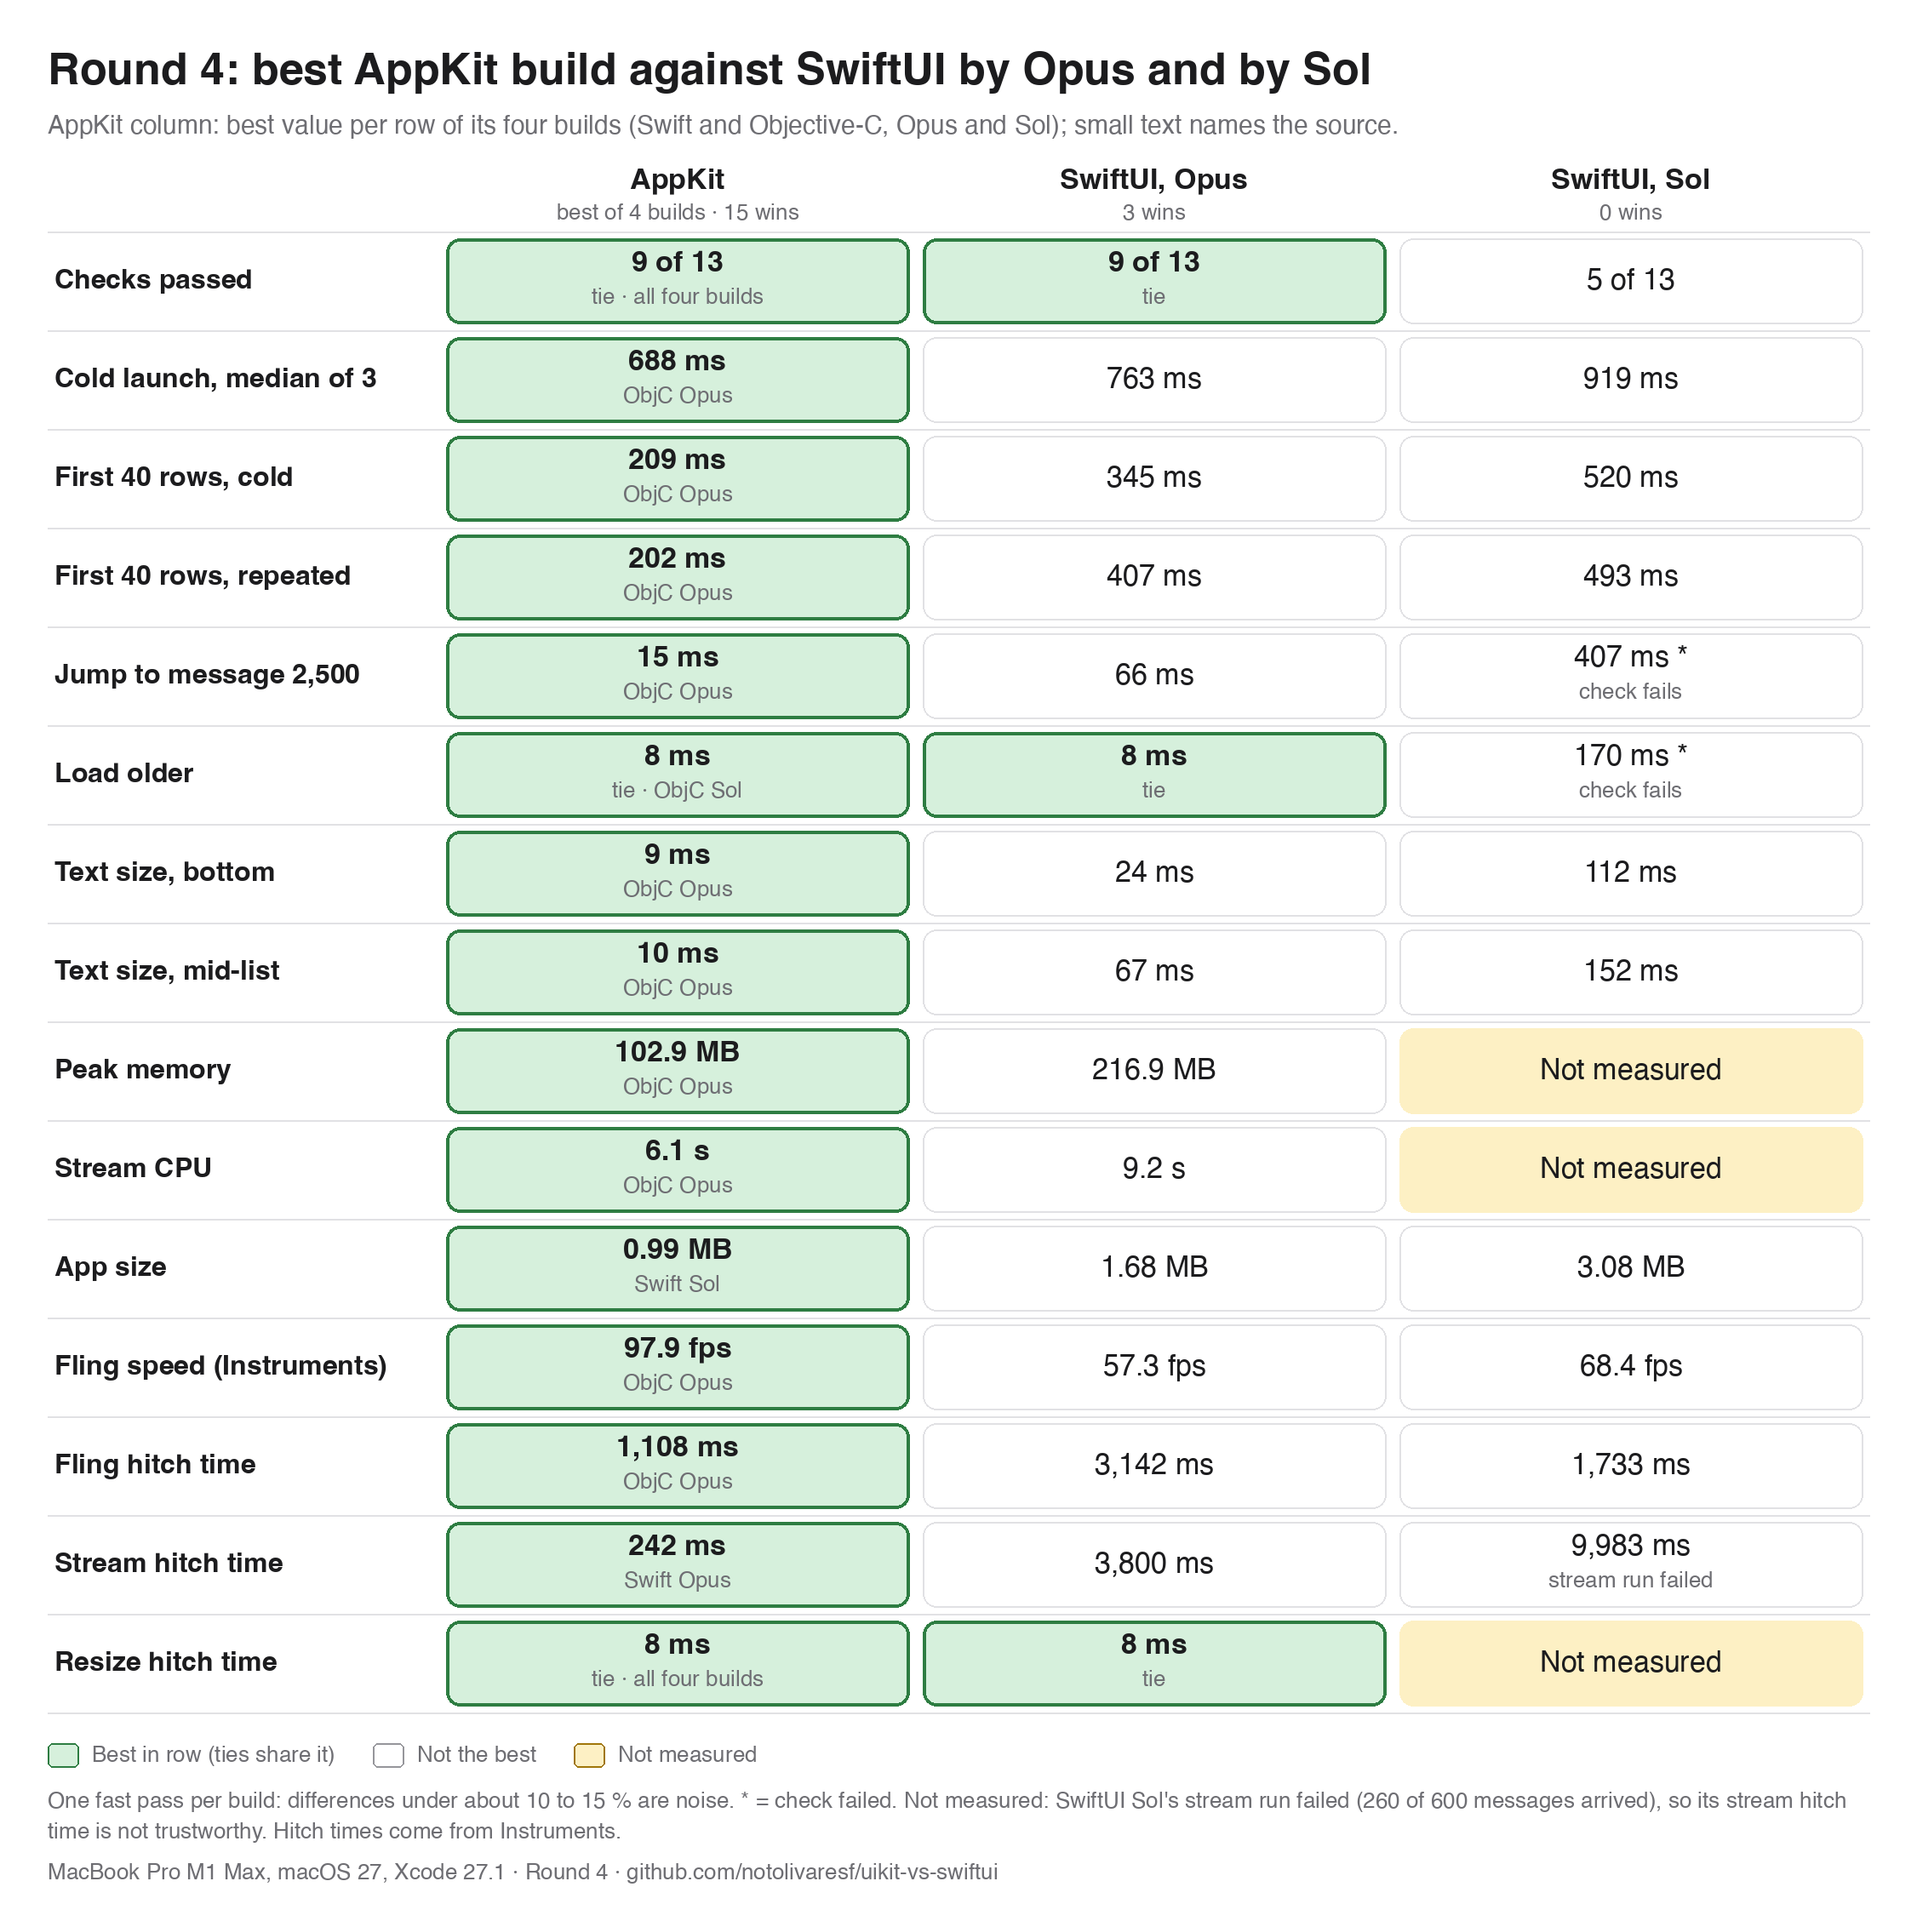
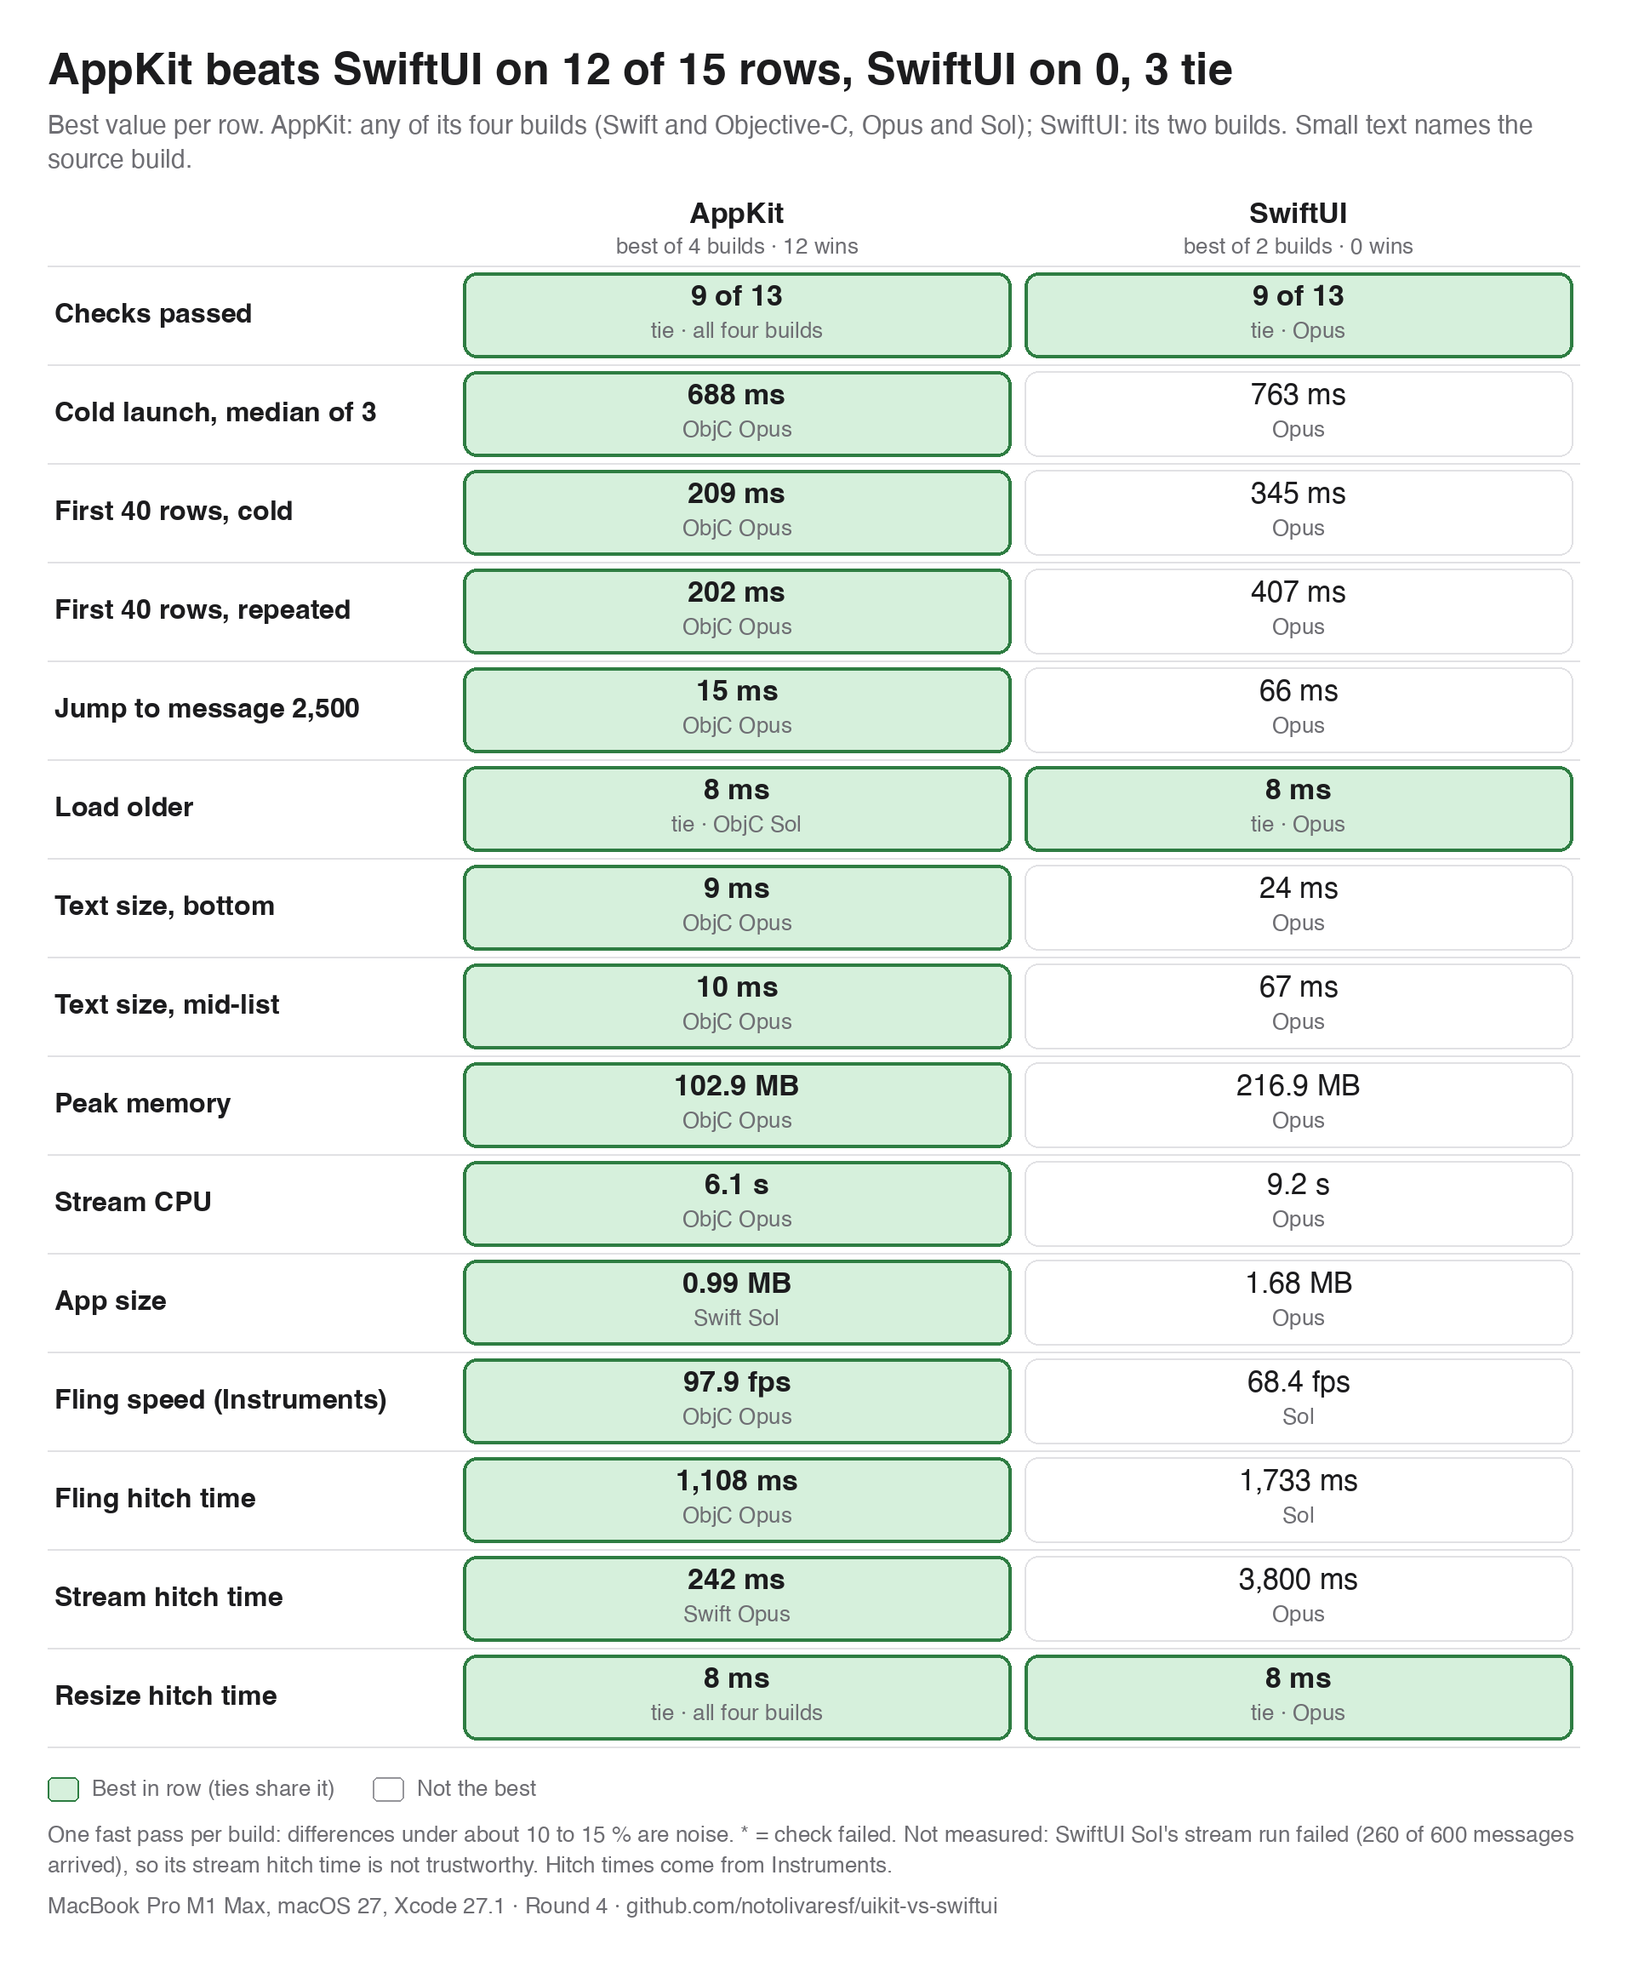
Round 4 AppKit vs SwiftUI chart: two columns (best AppKit vs best SwiftUI), result in the title

diff --git a/Harness/tools/results_table.py b/Harness/tools/results_table.py
@@ -12,7 +12,7 @@ Usage: python3 Harness/tools/results_table.py
        python3 Harness/tools/results_table.py --swiftui-skills   (same, only Apple skills against @twannl's skills: results-swiftui-skills.png and -dark.png, 4:5 portrait)
        python3 Harness/tools/results_table.py --uikit-vs-swiftui-skills   (Best UIKit against the two SwiftUI skill sets, 4:5: results-uikit-vs-swiftui-skills.png and -dark.png)
        python3 Harness/tools/results_table.py --round3-best   (best UIKit vs best SwiftUI of Round 3: results-round3-best.png and -dark.png)
-       python3 Harness/tools/results_table.py --round4-appkit-vs-swiftui   (Round 4, Mac: best AppKit vs SwiftUI Opus vs SwiftUI Sol: results-round4-appkit-vs-swiftui.png and -dark.png)
+       python3 Harness/tools/results_table.py --round4-appkit-vs-swiftui   (Round 4, Mac: two columns: best of 4 AppKit builds vs best of 2 SwiftUI builds: results-round4-appkit-vs-swiftui.png and -dark.png)
        python3 Harness/tools/results_table.py --round4-all   (Round 4, Mac: all six builds: results-round4-all.png and -dark.png)
 """
 import os
@@ -630,29 +630,37 @@ def r4_six_rows():
 
 
 def r4_appkit_rows():
-    """AppKit column = best of its four builds per row (source named); SwiftUI Opus and Sol as measured."""
-    rows, wins = [], [0, 0, 0]
+    """Two columns. AppKit = best of its four builds per row (source build named); SwiftUI = best of its two (Opus or Sol named).
+    A not-measured SwiftUI value is skipped when the other build has a real one; a starred (failed check) value keeps its star."""
+    rows, wins = [], [0, 0]
+    ties = 0
     for label, cells in R4_DATA:
-        ak = [(k, c) for k, c in enumerate(cells[:4])]
-        bk = min(c[0] for _, c in ak)
-        who = [k for k, c in ak if c[0] == bk]
-        main = cells[who[0]][1]
-        src = "all four builds" if len(who) == 4 else " · ".join(R4_SHORT[k] for k in who) if len(who) <= 2 else "%d builds" % len(who)
-        sub = cells[who[0]][2]
-        if len(who) == 1 and sub:
-            src = sub + " · " + src
-        trio = [(bk, main, src), cells[4], cells[5]]
-        idx, _ = _winners([c[0] for c in trio])
-        for i in idx:
-            wins[i] += 1
+        bk = min(c[0] for c in cells[:4] if c[0] is not None)
+        who = [k for k in range(4) if cells[k][0] == bk]
+        src = "all four builds" if len(who) == 4 else " · ".join(R4_SHORT[k] for k in who)
+        if len(who) == 1 and cells[who[0]][2]:
+            src = cells[who[0]][2] + " · " + src
+        ak = (bk, cells[who[0]][1], src)
+        sw = [(k, cells[k]) for k in (4, 5) if cells[k][0] is not None]
+        sk = min(c[0] for _, c in sw)
+        sw_who = [k for k, c in sw if c[0] == sk]
+        model = "Opus and Sol" if len(sw_who) == 2 else ("Opus" if sw_who[0] == 4 else "Sol")
+        c0 = cells[sw_who[0]]
+        sub = (c0[2] + " · " + model) if c0[2] else model
+        pair = [ak, (sk, c0[1], sub)]
+        idx, _ = _winners([c[0] for c in pair])
+        if len(idx) == 2:
+            ties += 1
+        else:
+            wins[idx[0]] += 1
         out = []
-        for i, c in enumerate(trio):
+        for i, c in enumerate(pair):
             e = _cell(c, i in idx, False)
-            if len(idx) > 1 and i in idx:
-                e = (e[0], e[1], ("tie · " + e[2]) if e[2] else "tie", e[3])
+            if len(idx) == 2:
+                e = (e[0], e[1], "tie · " + e[2], e[3])
             out.append(e)
         rows.append((label, out))
-    return rows, wins
+    return rows, wins, ties
 
 
 R4ALL = dict(title="Round 4: AppKit Swift and Objective-C against SwiftUI on the Mac",
@@ -662,13 +670,12 @@ R4ALL = dict(title="Round 4: AppKit Swift and Objective-C against SwiftUI on the
              groups=[("AppKit Swift", (0, 1)), ("AppKit Objective-C", (2, 3)), ("SwiftUI", (4, 5))],
              legend=R4_LEG, note=R4_NOTE, footer=R4_FOOT)
 
-_R4A_ROWS, R4A_WINS = r4_appkit_rows()
-R4AK = dict(title="Round 4: best AppKit build against SwiftUI by Opus and by Sol",
-            subtitle="AppKit column: best value per row of its four builds (Swift and Objective-C, Opus and Sol); small text names the source.",
-            builds=[("AppKit", "best of 4 builds · %d wins" % R4A_WINS[0]), ("SwiftUI, Opus", "%d wins" % R4A_WINS[1]),
-                    ("SwiftUI, Sol", "%d wins" % R4A_WINS[2])],
-            rows=_R4A_ROWS, col_w=280, label_w=230, file="results-round4-appkit-vs-swiftui", row_h=58, groups=None,
-            legend=R4_LEG, note=R4_NOTE, footer=R4_FOOT)
+_R4A_ROWS, R4A_WINS, R4A_TIES = r4_appkit_rows()
+R4AK = dict(title="AppKit beats SwiftUI on %d of %d rows, SwiftUI on %d, %d tie" % (R4A_WINS[0], len(_R4A_ROWS), R4A_WINS[1], R4A_TIES),
+            subtitle="Best value per row. AppKit: any of its four builds (Swift and Objective-C, Opus and Sol); SwiftUI: its two builds. Small text names the source build.",
+            builds=[("AppKit", "best of 4 builds \u00b7 %d wins" % R4A_WINS[0]), ("SwiftUI", "best of 2 builds \u00b7 %d wins" % R4A_WINS[1])],
+            rows=_R4A_ROWS, col_w=330, label_w=240, file="results-round4-appkit-vs-swiftui", row_h=58, groups=None,
+            legend=[("ok", "Best in row (ties share it)"), ("none", "Not the best")], note=R4_NOTE, footer=R4_FOOT)
 
 S = 2  # scale
 LABEL_W, COL_W, ROW_H, HEAD_H, GROUP_H = 250, 220, 62, 44, 36  # ROW_H is the default; a spec can set row_h

diff --git a/AGENTS.md b/AGENTS.md
@@ -15,7 +15,7 @@ Every shareable results image is made with `Harness/tools/results_table.py`, nev
 | `results-swiftui-3way` | `python3 Harness/tools/results_table.py --swiftui-3way` |
 | `results-swiftui-skills` | `python3 Harness/tools/results_table.py --swiftui-skills` |
 | `results-uikit-vs-swiftui-skills` | `python3 Harness/tools/results_table.py --uikit-vs-swiftui-skills` |
-| `results-round4-appkit-vs-swiftui` (Mac: best AppKit vs SwiftUI Opus vs SwiftUI Sol) | `python3 Harness/tools/results_table.py --round4-appkit-vs-swiftui` |
+| `results-round4-appkit-vs-swiftui` (Mac, two columns: best of the four AppKit builds vs best of the two SwiftUI builds) | `python3 Harness/tools/results_table.py --round4-appkit-vs-swiftui` |
 | `results-round4-all` (Mac: all six builds) | `python3 Harness/tools/results_table.py --round4-all` |
 
 For a new round or comparison, add a mode to the script (data, a spec dict, a flag, a line in its docstring) and a row in this table, then look at both PNGs before committing.

diff --git a/docs/round4-results.md b/docs/round4-results.md
@@ -22,7 +22,7 @@ Release apps were built with Xcode 26.4 (all six; Sol SwiftUI Mac had only a Deb
 | Resize hitch time (ms) | 8 | 8 | 8 | 8 | 8 | not measured |
 | Checks passed (of 13) | 9 | 9 | 9 | 9 | 9 | 5 |
 
-Shareable images (light and dark, made by `Harness/tools/results_table.py`): best AppKit against SwiftUI Opus and Sol `docs/images/results-round4-appkit-vs-swiftui.png`, and all six builds `docs/images/results-round4-all.png`.
+Shareable images (light and dark, made by `Harness/tools/results_table.py`): best AppKit against best SwiftUI `docs/images/results-round4-appkit-vs-swiftui.png`, and all six builds `docs/images/results-round4-all.png`.
 
 Hitch numbers are the Instruments-derived ones; the XCTest hitch counters read 0 and are not reported.
 
